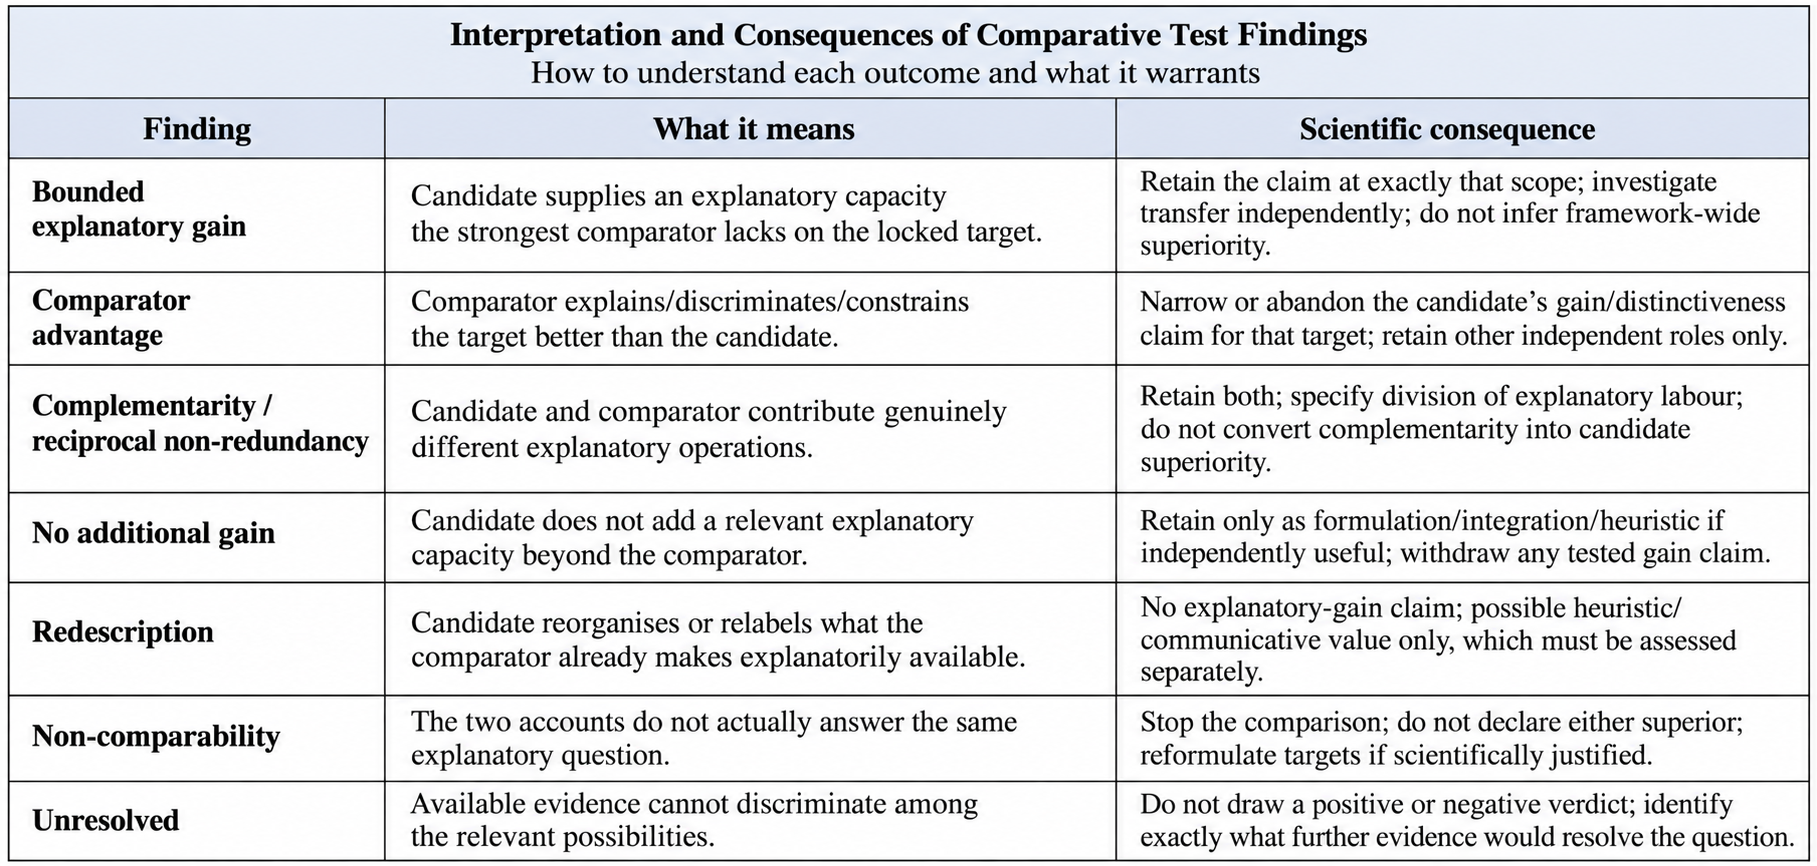
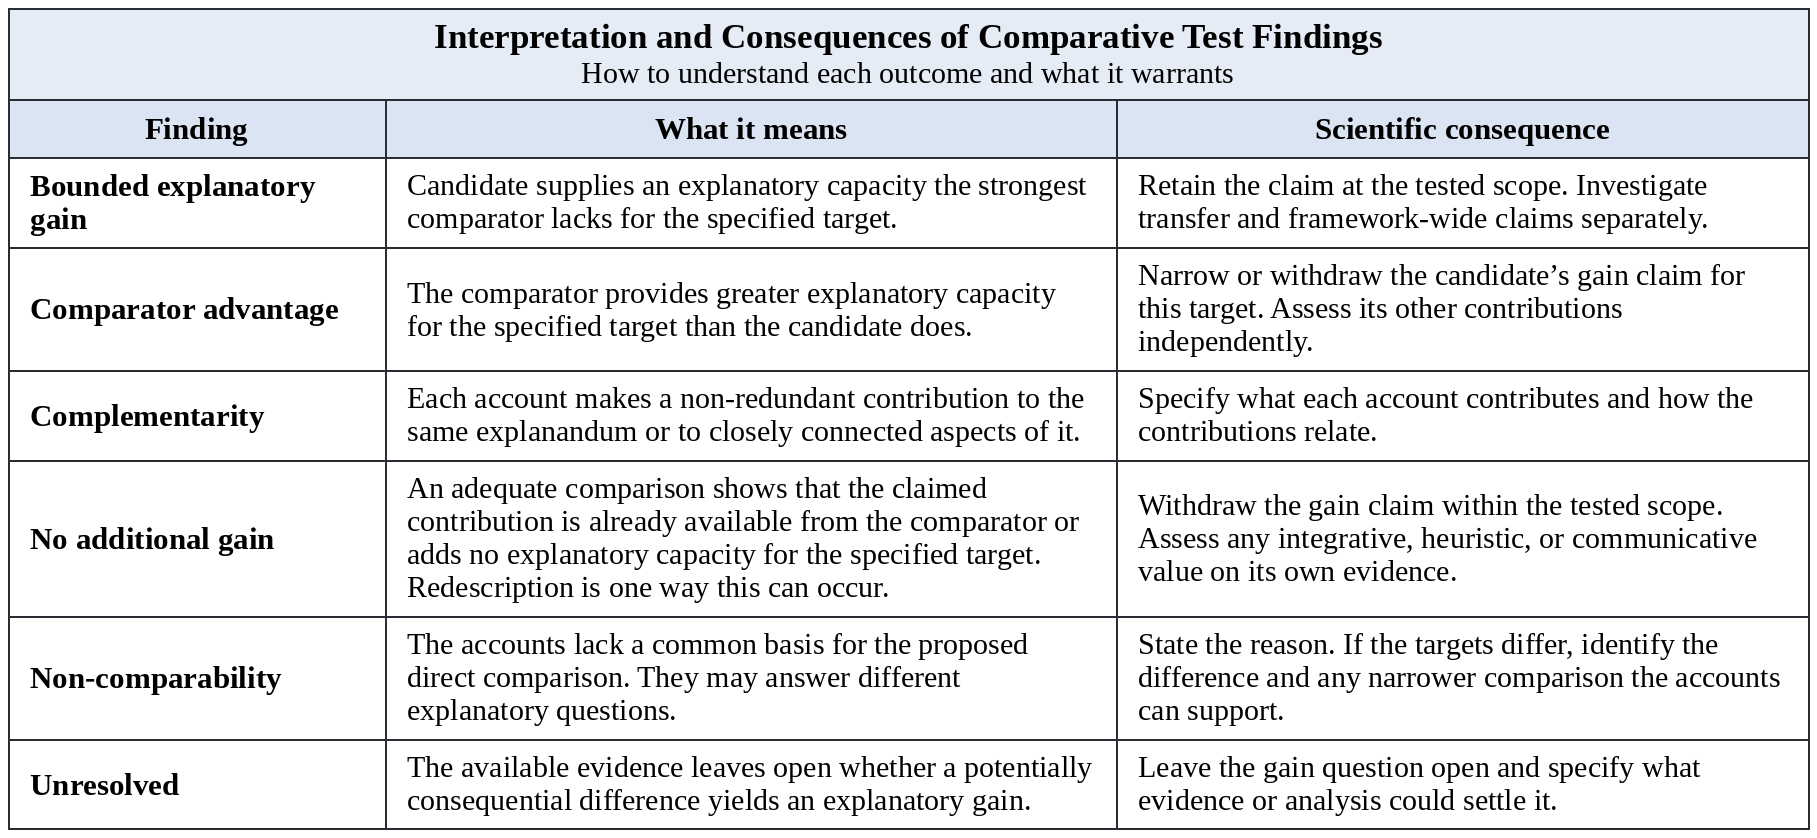
revision

Changed region(s): [[0.0, 0.0, 1.0, 1.0], [0.0, 0.7136, 0.1233, 0.7446]]

diff --git a/src/content/articles/a-practical-guide-to-building-better-scientific-explanations.md b/src/content/articles/a-practical-guide-to-building-better-scientific-explanations.md
@@ -6,7 +6,7 @@ type: article
 status: canonical
 canonical: true
 canonicalLockDate: 2026-09-05
-revised: 2026-10-11
+revised: 2026-11-21
 cluster: methodology-and-explanation
 role: core
 abstract: "Scientific explanations are easier to assess when their explananda, explanatory claims, explanatory resources, evidence, strongest relevant alternatives, claimed additional contributions and warranted scope remain explicitly aligned. This article converts the preceding Methodology and Explanation sequence into a practical, non-algorithmic guide for constructing and assessing explanations while permitting bounded positive, null, unresolved and non-comparable outcomes."
@@ -116,7 +116,7 @@ Evidence should support the explanatory relation claimed, not merely the existen
 
 A causal claim normally requires evidence capable of distinguishing causal dependence from association, with interventionist or structural reasoning providing important tools for doing so (Woodward, 2003; Pearl, 2009). A modelling claim requires clarity about what successful fit, validation or calibration establishes; numerical agreement does not by itself prove that a model is uniquely correct or literally true in all respects (Oreskes, Shrader-Frechette, & Belitz, 1994).
 
-Evidence also has a history. Exploratory analysis and post-hoc hypothesis generation are legitimate parts of research. Problems arise when a result discovered after inspecting the data is presented as though it had survived a prior independent test. HARKing and related forms of hidden flexibility can therefore inflate evidential appearance without making the exploratory work itself illegitimate (Kerr, 1998). Reproducibility practices, transparent reporting and preregistration can help where they are appropriate to the design, but they are means of evidential control rather than universal rituals (MunafÃ² et al., 2017).
+Evidence also has a history. Exploratory analysis and post-hoc hypothesis generation are legitimate parts of research. Problems arise when a result discovered after inspecting the data is presented as though it had survived a prior independent test. HARKing and related forms of hidden flexibility can therefore inflate evidential appearance without making the exploratory work itself illegitimate (Kerr, 1998). Reproducibility practices, transparent reporting and preregistration can help where they are appropriate to the design, but they are means of evidential control rather than universal rituals (Munafò et al., 2017).
 
 The operative rule is simple:
 
@@ -124,25 +124,21 @@ The operative rule is simple:
 
 ### Reconstruct the Strongest Relevant Comparator
 
-Not every explanation needs to defeat a rival. But when comparative advantage is claimed, a weak foil is not enough.
+When an account claims a comparative advantage, assess it against the strongest relevant alternative for the specified explanatory target. Accounts that address the same subject can answer different questions. Establish where their targets match before judging whether their contributions compete, overlap, or complement one another.
 
-The relevant comparator should address a sufficiently matched explanatory target and should be reconstructed in a form its proponents could recognise. This means giving it credit for the explanatory resources and evidence it actually possesses rather than comparing the candidate account with a simplified caricature.
+Reconstruct the comparator in a form its proponents could recognise. Give it full credit for the explanatory resources and evidence it can bring to bear on the target. This includes relevant developments of the account that fall within the scope of the comparison.
 
-Explanatory alternatives may compete, overlap, complement one another, or prove to be directed at different questions. Comparison should therefore begin by asking whether the accounts are genuinely comparable rather than assuming competition from shared subject matter alone.
+Where the claim concerns explanatory advance, specify the date against which the advance is being judged. A historical assessment asks what the account added relative to the strongest relevant alternative available when it was introduced. A present-day assessment asks what it adds relative to the strongest alternative available now. An account may have made a genuine advance when first proposed even if later work has since made the same explanatory contribution available elsewhere.
 
-Inference to the best explanation provides one influential way of thinking about explanatory alternatives, but PA-09 does not reduce comparison to a single philosophical theory of inference (Lipton, 2004). The practical requirement is narrower: compare the candidate with the strongest relevant alternative, not the weakest available rival.
+Inference to the best explanation offers one influential way to reason about alternatives (Lipton, 2004). The practical requirement here applies across theories of inference. Identify the strongest comparator for the target and date in question, then reconstruct it with enough care for the comparison to carry evidential weight.
 
 ### Compare Explanatory Contribution
 
-Once the target and comparator are sufficiently matched, compare what each account contributes.
+Once the explanatory targets are sufficiently matched, restate both accounts in terms their proponents could accept. Where possible, use shared language to describe what each account explains, which resources it uses, and what it allows us to infer. Where a technical term carries a substantive commitment, make that commitment explicit in the comparison.
 
-Ask what each explanation enables us to understand about the specified explanandum. Does one identify a dependency that the other omits? Does one discriminate between possibilities that remain undifferentiated in the comparator? Do they make different counterfactual commitments? Does each contribute something non-redundant to different but sufficiently connected aspects of the target?
+Ask what difference remains after this restatement. One account may identify a dependency the other omits, distinguish possibilities the other leaves open, or imply a different outcome under a specified change in conditions. Differences in vocabulary, emphasis, or presentation can leave the explanatory commitments intact. Accounts are complementary when each makes a non-redundant contribution to the same explanandum or to closely connected aspects of it.
 
-Difference alone is not enough.
-
-Two accounts may use different vocabulary while making the same explanatory commitments. They may emphasise different features without altering what can be explained. They may also be complementary, but complementarity should be reserved for cases in which each account contributes something genuinely non-redundant rather than merely coexisting without contradiction.
-
-At this point the comparison should remain descriptive and symmetrical. The next question is whether any claimed explanatory advance has actually been demonstrated.
+The comparison should give both accounts equal scrutiny. Its result is a statement of what they share and what, if anything, differs. Any remaining difference provides a specific claim to test in the next step.
 
 ### Test Any Claimed Additional Capacity
 
@@ -170,40 +166,30 @@ Can you state the explanandum clearly? Is the explanatory claim distinct from de
 
 ### Bound the Verdict and Its Scope
 
-A controlled assessment does not have to end with one account declared the winner.
+State the verdict for the specified explanandum, comparator, and conditions of the test. Where the accounts address sufficiently matched targets, the comparison can support several outcomes.
 
-For a specified explanandum and sufficiently strong comparator, several bounded outcomes are legitimate:
-
-- **Bounded positive gain** â€” additional target-relevant explanatory capacity is demonstrated.
-- **Comparator advantage** — the strongest relevant comparator provides greater explanatory capacity for the specified target than the candidate account.
-- **Complementarity** â€” each account contributes something non-redundant to the specified explanandum or to sufficiently linked aspects of it.
-- **No additional gain** â€” the candidate account does not establish additional explanatory capacity in the controlled comparison.
-- **Redescription** — the candidate reorganises or reformulates explanatory content already available from the strongest relevant comparator without demonstrating additional explanatory capacity.
-- **Unresolved** â€” the available evidence does not yet settle the residual-capacity question.
-- **Non-comparability** â€” the accounts are not sufficiently matched for the proposed direct comparison.
-
-These are alternatives, not positions on a single scale.
+- **Bounded explanatory gain.** The candidate demonstrates an additional explanatory capacity for the specified target within the tested scope.
+- **Comparator advantage.** The comparator provides greater explanatory capacity for the specified target within that scope.
+- **Complementarity.** Each account makes a non-redundant contribution to the same explanandum or to closely connected aspects of it.
+- **No additional gain.** An adequate comparison shows that the claimed contribution is already available from the comparator or adds no explanatory capacity for the specified target. Redescription is one basis for this verdict when restating both accounts in shared terms reveals equivalent explanatory commitments.
+- **Unresolved.** A potentially consequential difference remains, and the available evidence cannot settle whether it yields an explanatory gain. Specify what finding or analysis could resolve the question.
+- **Non-comparability.** The accounts lack a common basis for the proposed direct comparison. Where this arises because they answer different questions, state the target difference and identify any narrower comparison the accounts can support.
 
 <div class="aps-diagram">
-
-<a href="/assets/diagrams/methodology-implications.png" target="_blank" rel="noopener">
-  <img
-    src="/assets/diagrams/methodology-implications.png"
-    alt="Interpretation and consequences of comparative test findings, showing what bounded explanatory gain, comparator advantage, complementarity, no additional gain, redescription, non-comparability, and unresolved findings mean and what each scientifically warrants"
-    loading="lazy"
-  />
-</a>
-
-<p class="aps-diagram-caption">
-  <strong>Interpreting Comparative Findings.</strong>
-  Different comparative outcomes warrant different scientific conclusions. A bounded explanatory gain supports a correspondingly bounded claim, whereas comparator advantage, complementarity, no additional gain, redescription, non-comparability and unresolved evidence impose different constraints on what may legitimately be concluded.
-</p>
-
+  <a href="/assets/diagrams/methodology-implications.png" target="_blank" rel="noopener">
+    <img
+      src="/assets/diagrams/methodology-implications.png"
+      alt="Comparative outcomes and their implications for the conclusions warranted by a test"
+      loading="lazy"
+    />
+  </a>
+  <p class="aps-diagram-caption">
+    <strong>Interpreting Comparative Findings.</strong>
+    The verdict records what the comparison warrants for the specified target. Redescription can explain a finding of no additional gain, while an unresolved finding identifies a question that remains open.
+  </p>
 </div>
 
-Scope must then be controlled. Evidence from one population, model system, species or regime does not automatically warrant a general biological conclusion. Generalisation requires bridge evidence or other justification appropriate to the domain (Yarkoni, 2022).
-
-The same principle applies to framework claims. A local explanatory success does not establish framework-wide superiority, and a local null result does not establish framework-wide failure.
+The verdict applies within the population, model system, species, or regime for which the evidence supports it. Extending it to a wider domain requires evidence or an explicit argument that the relevant explanatory relations carry over (Yarkoni, 2022). The same requirement applies to framework-level claims. A local gain supports a claim about the contribution tested, and a local finding of no additional gain limits that claim within the comparison. Either finding requires further evidence to support a judgement about the framework as a whole.
 
 ### Record What Remains Unresolved
 
@@ -211,7 +197,7 @@ A rigorous explanation should make its unresolved burdens visible.
 
 This may include uncertainty about the target, incomplete evidence for a proposed dependency, ambiguity about the strongest relevant comparator, uncertain scope, or a residual question that current data cannot adjudicate.
 
-â€œUnresolvedâ€ should not be treated as an embarrassment to be removed by stronger rhetoric. It is often the correct scientific result.
+-œUnresolved- should not be treated as an embarrassment to be removed by stronger rhetoric. It is often the correct scientific result.
 
 A useful unresolved statement identifies what remains open and what kind of further evidence or analysis could change the assessment. This makes the explanation more assessable because later work can be directed toward a specific burden rather than toward an indefinitely expanding research programme.
 
@@ -267,7 +253,7 @@ It does not prescribe one evidential method for every science, require every exp
 
 It also does not establish the scientific standing of an entire explanatory framework. A framework may contain multiple conceptual, methodological, modelling and substantive claims whose joint evaluation requires a different level of testing.
 
-Finally, nothing in this workflow depends on Agencyâ€“Processâ€“Scale or any other APS-specific biological proposition. The methodology is intended to remain independently applicable.
+Finally, nothing in this workflow depends on Agency-“Process-“Scale or any other APS-specific biological proposition. The methodology is intended to remain independently applicable.
 
 ## Related Terms and Next Step
 
@@ -277,3 +263,28 @@ For the diagnostic background, see [How Do Scientific Explanations Go Wrong?](/a
 
 PA-09 provides a practical method for constructing and assessing individual scientific explanations. The next article, **How Should a New Scientific Framework Be Tested?**, asks a different question: when a proposed scientific framework makes multiple explanatory, methodological, conceptual or substantive claims, how should the framework as a whole be tested fairly and allowed to fail?
 
+## Explanatory Architecture
+
+### Central Question
+
+How can an individual scientific explanation be constructed, assessed, and revised so that its claims remain proportionate to the evidence?
+
+### Architectural Role
+
+The article turns the preceding methodological distinctions into a practical workflow for specifying a target, assessing evidence, and testing any claimed comparative gain.
+
+### Preceding Dependencies
+
+[How Do Scientific Explanations Go Wrong?](/articles/how-do-scientific-explanations-go-wrong/) identifies recurrent failures. [How Should Scientific Explanations Be Compared?](/articles/how-should-scientific-explanations-be-compared/) establishes fair comparison, and [What Counts as Explanatory Gain?](/articles/what-counts-as-explanatory-gain/) specifies the burden for a claim of advance.
+
+### Related and Subsequent Developments
+
+[Which Explanatory Framework Is Best?](/articles/which-explanatory-framework-is-best/) examines the scope of comparisons among frameworks. [How Should a New Scientific Framework Be Tested?](/articles/how-should-a-new-scientific-framework-be-tested/) extends the inquiry to frameworks containing several kinds of scientific claim.
+
+### Related Questions
+
+Which evidence supports the proposed explanation? What difference survives comparison in shared terms? What finding would change the verdict?
+
+### Position Within APS
+
+This core article in the Methodology and Explanation cluster provides a workflow that can assess claims made by APS and by other approaches on the same terms.
